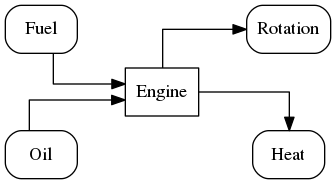
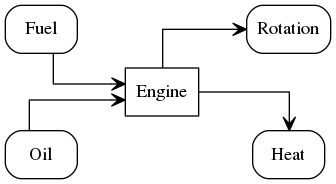
Using vee-arrowhead for edges

Changed region(s): [[0.3274, 0.4076, 0.3571, 0.5978], [0.8333, 0.625, 0.8929, 0.7065], [0.6845, 0.1087, 0.744, 0.1902]]

diff --git a/dot.go b/dot.go
@@ -41,6 +41,7 @@ func (diagram *FmcBlockDiagram) GenerateDot() {
 	print("rankdir=LR;")
 	print("splines=ortho;")
 	print("nodesep=0.8;")
+	print("arrowhead=vee")
 
 	print("")
 	print(`# Actors`)
@@ -64,10 +65,10 @@ func (diagram *FmcBlockDiagram) GenerateDot() {
 
 		if edge.edgeType == EdgeTypeRead {
 			log.Debug("Adding read access!")
-			edgestr = fmt.Sprintf("%v -> %v;", edge.storage.title, edge.actor.title)
+			edgestr = fmt.Sprintf("%v -> %v [arrowhead=vee];", edge.storage.title, edge.actor.title)
 		} else {
 			log.Debug("Adding write access!")
-			edgestr = fmt.Sprintf("%v -> %v;", edge.actor.title, edge.storage.title)
+			edgestr = fmt.Sprintf("%v -> %v  [arrowhead=vee];", edge.actor.title, edge.storage.title)
 		}
 
 		print(edgestr)

diff --git a/README.md b/README.md
@@ -4,7 +4,7 @@ Dreitafel helps you document and discuss the architecture and design of your sof
 This is how you could model the basics of a webserver serving static files:
 
 ```
-[ Browser ] --o-- [ Webserver ] <- ( static files )
+[Browser] --o-- [Webserver] <- (static files)
 ```
 
 The language used is a text version of the Block Diagrams of the [Fundamental Modeling Concepts (FMC)](http://fmc-modeling.org/),
